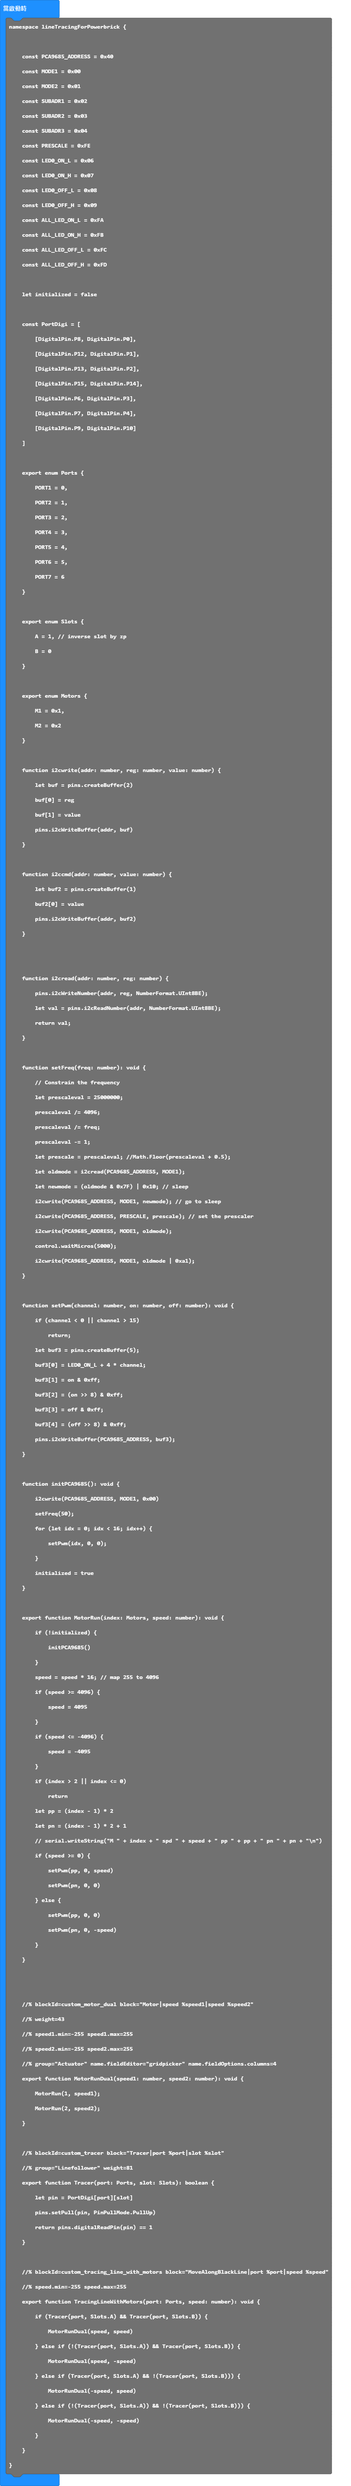
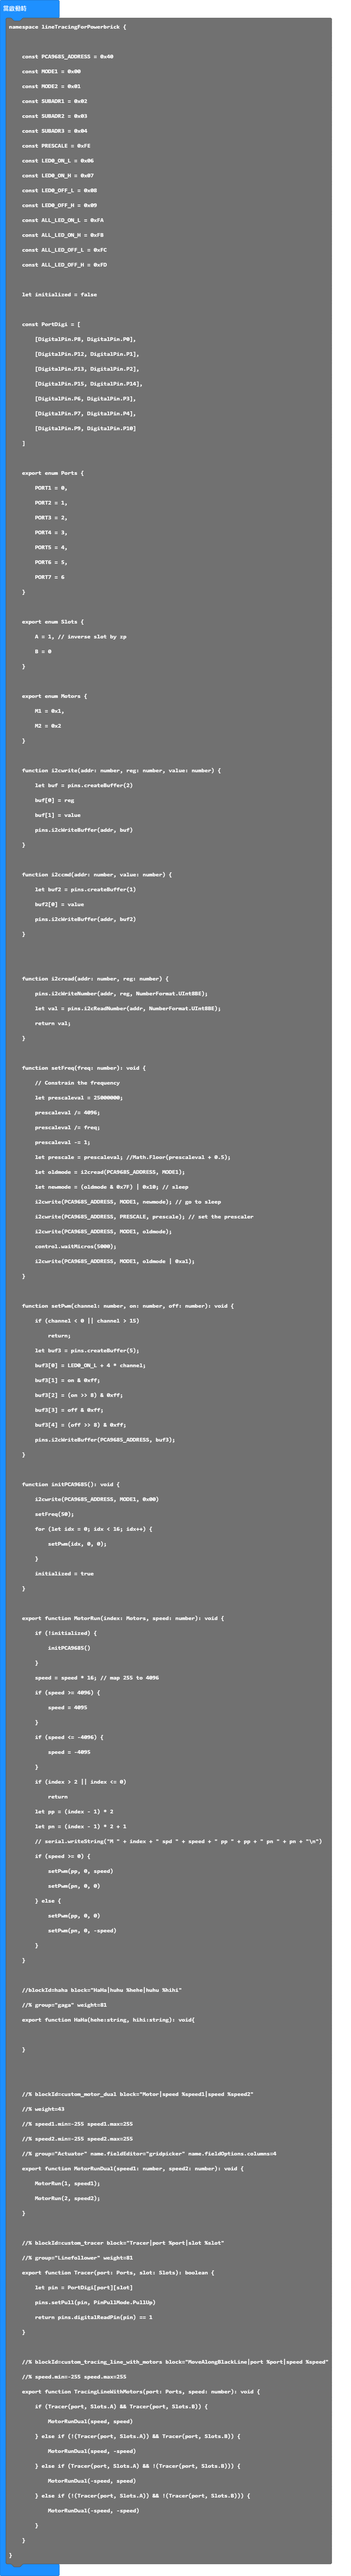
更新 main.blocks, main.ts

diff --git a/main.ts b/main.ts
@@ -130,6 +130,12 @@ namespace lineTracingForPowerbrick {
         }
     }
 
+    //blockId=haha block="HaHa|huhu %hehe|huhu %hihi"
+    //% group="gaga" weight=81
+    export function HaHa(hehe:string, hihi:string): void{
+
+    }
+
 
     //% blockId=custom_motor_dual block="Motor|speed %speed1|speed %speed2"
     //% weight=43
